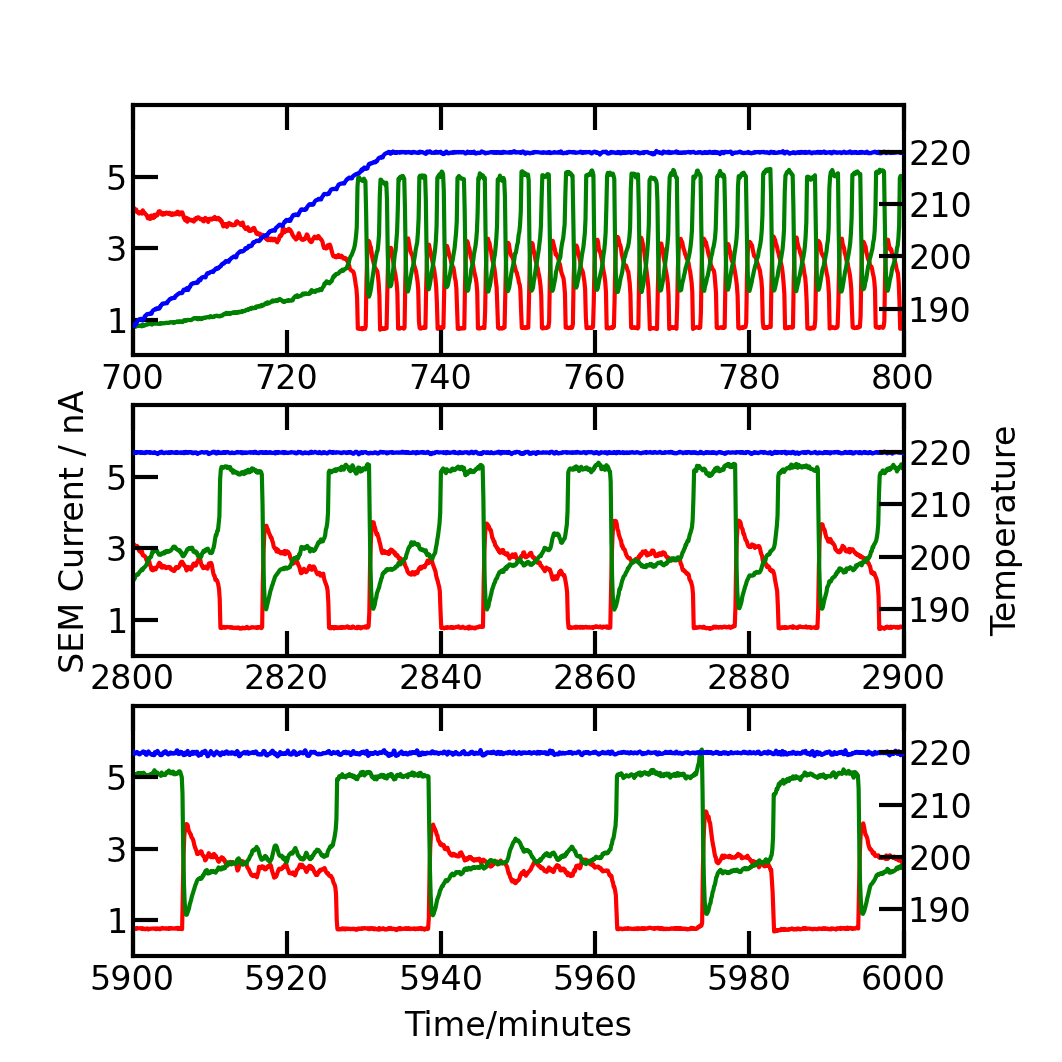
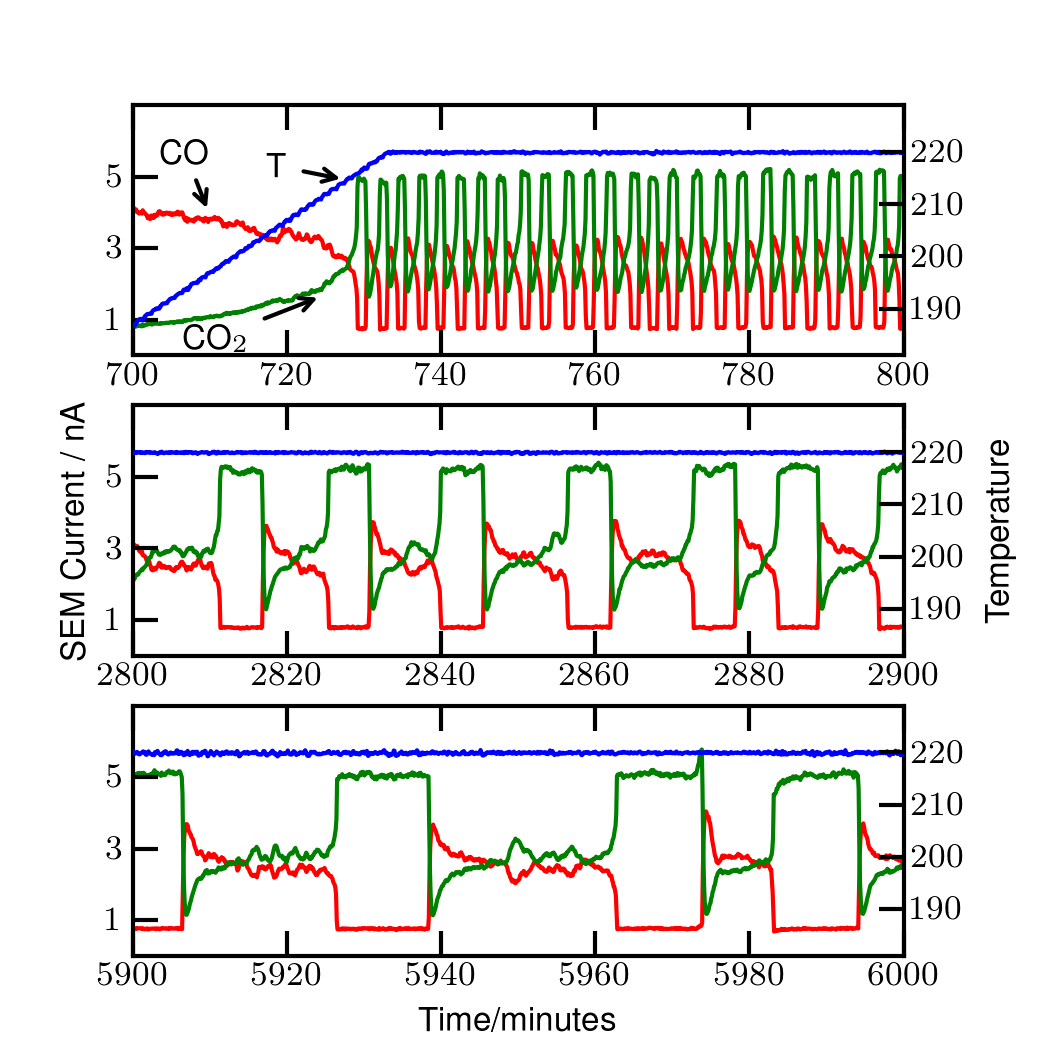
Updated figure

diff --git a/python_figures/extracts_from_very_long_oscillation.py b/python_figures/extracts_from_very_long_oscillation.py
@@ -5,6 +5,8 @@ import matplotlib.pyplot as plt
 import numpy as np
 import MySQLdb
 
+matplotlib.rc('text',usetex=True) # Magic fix for the font warnings
+
 try:
     db = MySQLdb.connect(host="servcinf", user="cinf_reader",passwd = "cinf_reader", db = "cinfdata")
 except:
@@ -61,6 +63,11 @@ for i in range(0,3):
     axis_array[i].tick_params(direction='in', length=6, width=1, colors='k',labelsize=8,axis='both',pad=2)
     axis2_array[i].tick_params(direction='in', length=6, width=1, colors='k',labelsize=8,axis='y',pad=2)
     axis_array[i].grid(False)    
+
+arrow = dict(facecolor='black',arrowstyle='->')
+axis_array[0].annotate('CO', xy=(710, 3.9),  xycoords='data', xytext=(710, 5.7), textcoords='data', arrowprops=arrow, horizontalalignment='right', verticalalignment='center',fontsize=8,)
+axis_array[0].annotate('CO$_2$', xy=(725, 1.7),  xycoords='data', xytext=(715, 0.5), textcoords='data', arrowprops=arrow, horizontalalignment='right', verticalalignment='center',fontsize=8,)
+axis_array[0].annotate('T', xy=(728, 4.9),  xycoords='data', xytext=(720, 5.3), textcoords='data', arrowprops=arrow, horizontalalignment='right', verticalalignment='center',fontsize=8,)
 
 axis_array[1].set_ylabel('SEM Current / nA', fontsize=8)
 axis2_array[1].set_ylabel('Temperature', fontsize=8)
